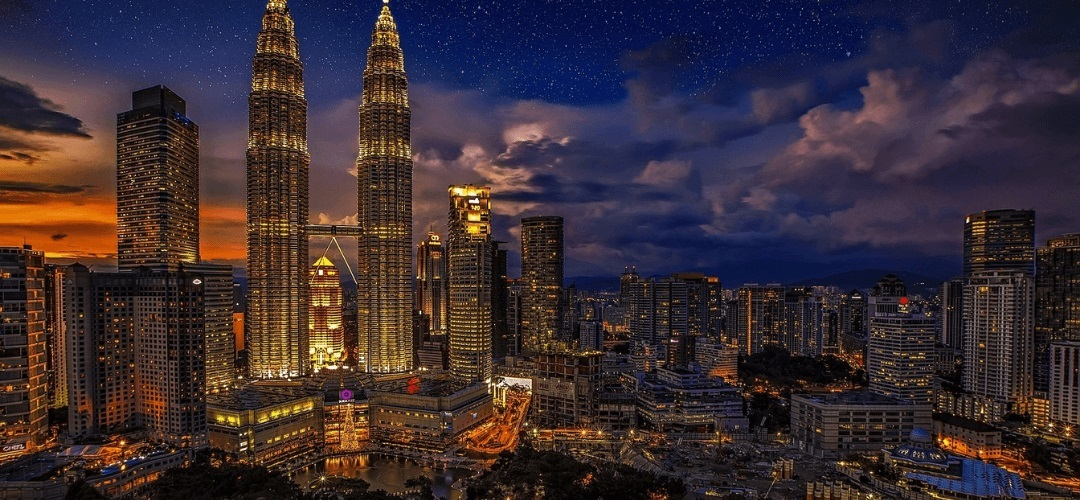
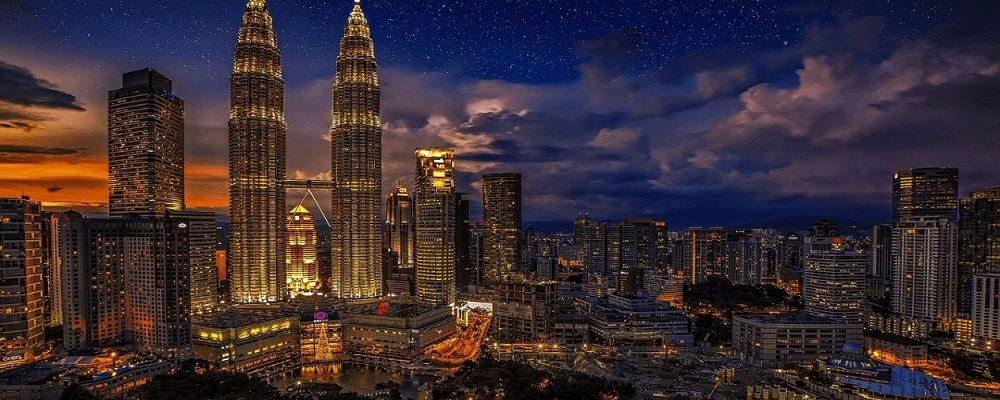
resize photo

diff --git a/index.html b/index.html
@@ -2,6 +2,6 @@
 layout: home
 author_profile: true
 header:
-   image: "/images/malaysia.jpg"
+   image: "/images/malaysia2.jpg"
 ---
  
